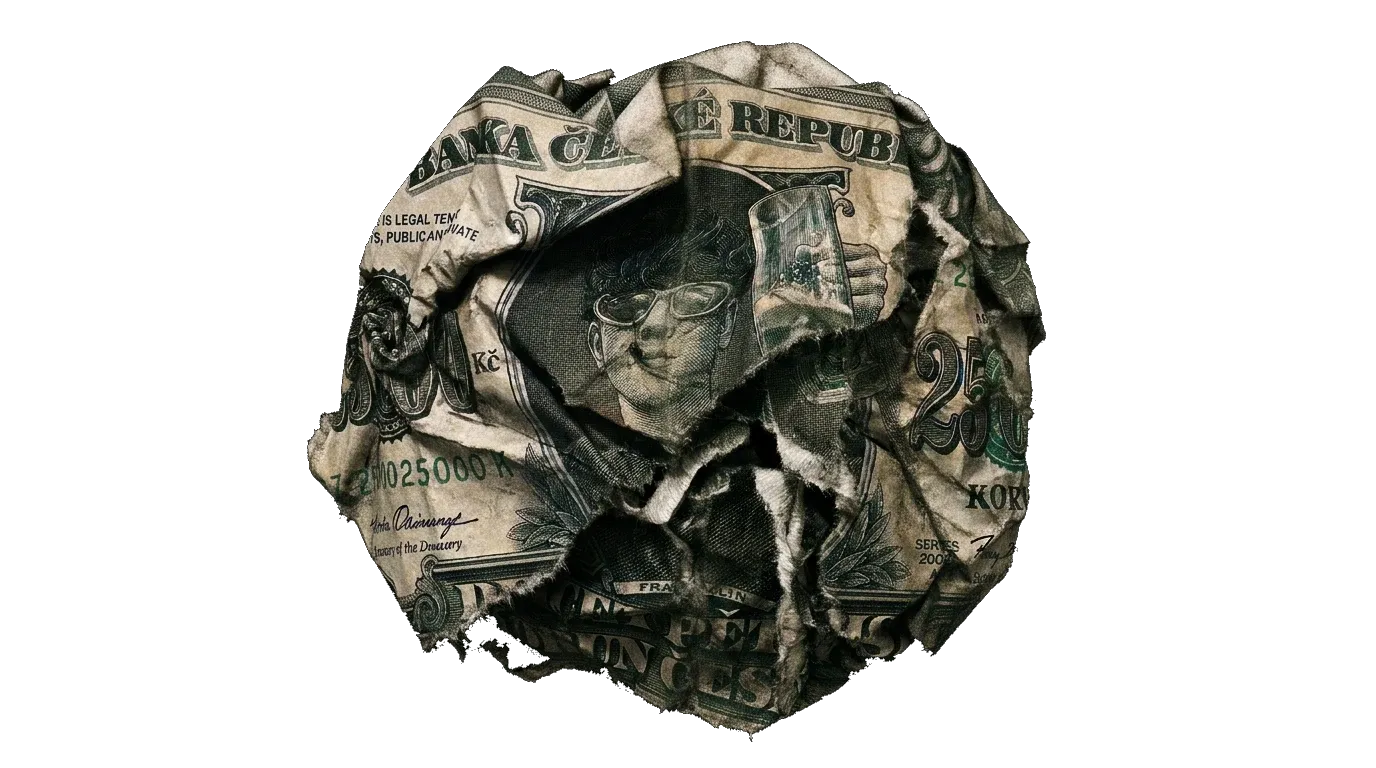
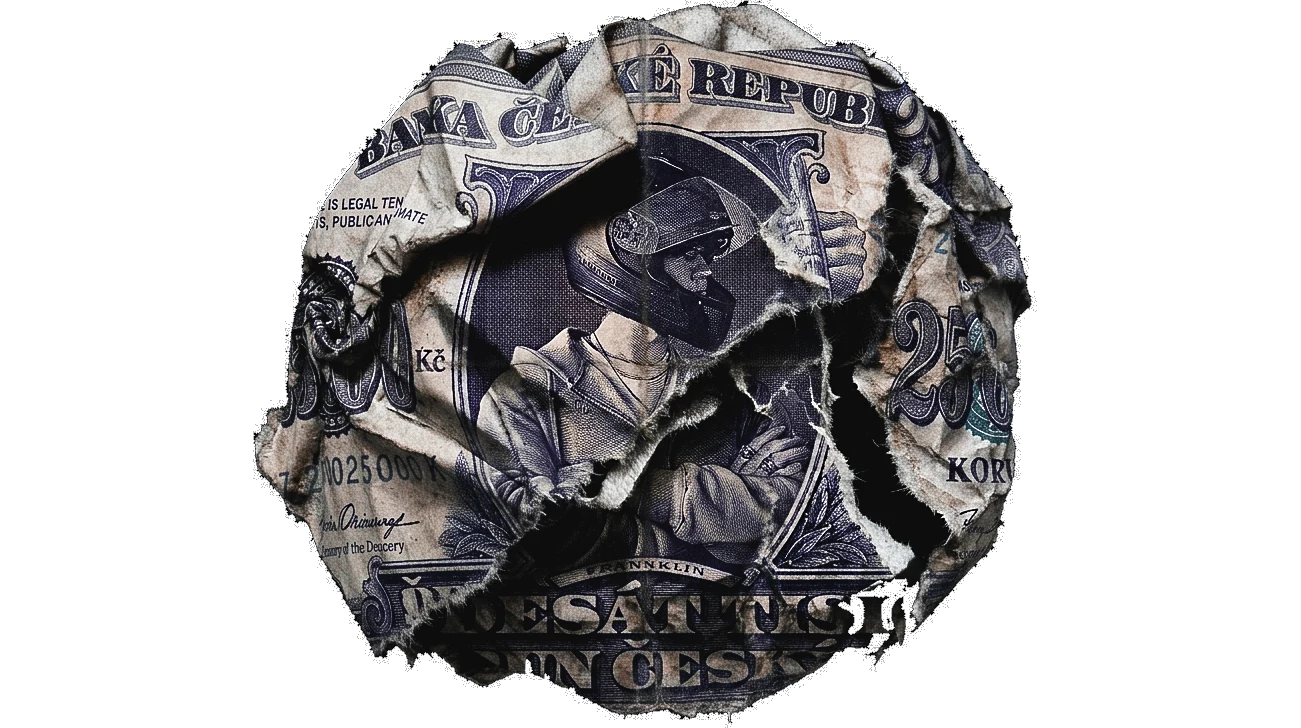
pridani 2. ESHOP BANKOVKY

diff --git a/src/features/home/About.tsx b/src/features/home/About.tsx
@@ -1,22 +1,57 @@
+import type { CSSProperties } from 'react'
 import { content } from '@/content/server'
+import { Words } from '@/components/fx/Words'
 import { typo } from '@/lib/typo/czech'
 import shared from './home.module.css'
 import styles from './About.module.css'
 
+/** Your own ID card render (a cut-out .webp in /public/photos, e.g. '/photos/id-card.webp'). Empty: the CSS card. */
+const CARD_ART = ''
+
+/** The typed note beside the ID card. OVĚŘIT: přepiš si to vlastními slovy. */
+const NOTE = {
+  head: 'Pár řádků o mně',
+  lines: [
+    'Ahoj, jsem FAJLAJP.',
+    'Weby dělám sám, od prvního nápadu až po poslední opravenou čárku. Žádná agentura, žádný přeposílání mailů.',
+    'Nejvíc mi to jde večer, když je ticho. Přes den ale odpovídám taky.',
+    'Baví mě, když web není jen hezkej, ale když je na něm poznat, čí je.',
+  ],
+  sign: '— F.',
+}
+
 /**
- * O mně — my photo on the left as a real print (taped, dated, turn it over); the copy on
- * the right: heading, two paragraphs, then the facts as a ruled two-column list.
+ * O mně — everything comes out of my wallet: the head (label, heading, two paragraphs), the open
+ * wallet with the @fajlajpos tag, then what else is in it: my "ID card" with the facts, and a few
+ * polaroids lying next to it.
  */
 export async function About() {
   const { home } = await content()
   const { about } = home
   return (
     <section id="o-mne" className={`${shared.section} ${styles.section}`} aria-labelledby="o-mne-title">
-      {/* for now the whole section is my wallet, open (public/photos/wallet-v3.webp); the texts come back with the redesign */}
-      <h2 id="o-mne-title" className="visually-hidden">
-        {about.heading}
-      </h2>
-      <div className={styles.walletWrap}>
+      <header className={styles.head}>
+        <p className={shared.label} data-reveal="">
+          <b>{about.index}</b> {about.label}
+        </p>
+        <h2
+          id="o-mne-title"
+          className={`${shared.h2} ${styles.title}`}
+          data-reveal=""
+          style={{ '--reveal-i': 1 } as CSSProperties}
+        >
+          <Words text={about.heading} />
+        </h2>
+        <div className={styles.body} data-reveal="" style={{ '--reveal-i': 2 } as CSSProperties}>
+          {about.body.map((p, i) => (
+            <p key={i} className={i === 0 ? styles.first : styles.text}>
+              {typo(p)}
+            </p>
+          ))}
+        </div>
+      </header>
+
+      <figure className={styles.walletWrap} data-reveal="">
         {/* eslint-disable-next-line @next/next/no-img-element -- a cut-out photo */}
         <img className={styles.wallet} src="/photos/wallet-v3.webp" alt={typo(about.caption)} width={1903} height={1158} loading="lazy" />
         {/* an Instagram-style tag over my head on the photo */}
@@ -24,6 +59,44 @@ export async function About() {
           @fajlajpos
           <span className="visually-hidden"> na Instagramu (otevře se v novém okně)</span>
         </a>
+      </figure>
+
+      <div className={styles.contents}>
+        {/* the ID card out of the wallet: your own render if there is one, else the CSS card */}
+        {CARD_ART ? (
+          <figure className={styles.cardArt} data-reveal="">
+            {/* eslint-disable-next-line @next/next/no-img-element -- my own ID card render */}
+            <img src={CARD_ART} alt="" width={1586} height={1000} loading="lazy" />
+            <figcaption className="visually-hidden">
+              {about.facts.map((f) => `${f.label}: ${f.value}`).join(', ')}
+            </figcaption>
+          </figure>
+        ) : (
+        <article className={styles.card} data-reveal="" aria-label="Moje karta">
+          <div className={styles.cardTop}>
+            <span className={styles.cardKind}>Průkaz · FAJLAJP</span>
+            <span className={styles.chip} aria-hidden="true" />
+          </div>
+          <dl className={styles.fields}>
+            {about.facts.map((f) => (
+              <div key={f.label} className={styles.field}>
+                <dt>{f.label}</dt>
+                <dd>{f.value}</dd>
+              </div>
+            ))}
+          </dl>
+          <p className={styles.cardFoot}>{typo(about.caption)}</p>
+        </article>
+        )}
+
+        {/* a sheet of paper typed on a typewriter */}
+        <div className={styles.paper} data-reveal="">
+          <p className={styles.paperHead}>{NOTE.head}</p>
+          {NOTE.lines.map((l, i) => (
+            <p key={i}>{typo(l)}</p>
+          ))}
+          <p className={styles.paperSign}>{NOTE.sign}</p>
+        </div>
       </div>
     </section>
   )

diff --git a/src/features/home/About.module.css b/src/features/home/About.module.css
@@ -188,3 +188,169 @@
   outline-offset: 3px;
 }
 
+/* ── the new layout: head, wallet, facts, photo strip ── */
+.head {
+  display: grid;
+  gap: var(--space-5);
+  max-width: 70rem;
+  margin-inline: auto;
+}
+
+.walletWrap {
+  margin-top: var(--space-8);
+  margin-bottom: 0;
+}
+
+/* ── what else is in the wallet: the ID card + polaroids ── */
+.contents {
+  display: grid;
+  gap: var(--space-8);
+  max-width: 70rem;
+  margin: var(--space-8) auto 0;
+  align-items: center;
+}
+
+/* the card: credit-card proportions, brushed dark metal, a chrome chip — no glow */
+.card {
+  position: relative;
+  display: grid;
+  gap: var(--space-5);
+  width: min(100%, 30rem);
+  aspect-ratio: 1.586;
+  margin-inline: auto;
+  padding: clamp(1rem, 3vw, 1.6rem);
+  border-radius: 16px;
+  background:
+    repeating-linear-gradient(90deg, rgb(255 255 255 / 0.02) 0 1px, transparent 1px 3px),
+    linear-gradient(135deg, #2a2a30 0%, #16161a 55%, #222228 100%);
+  box-shadow:
+    inset 0 1px 0 rgb(255 255 255 / 0.14),
+    inset 0 0 0 1px rgb(255 255 255 / 0.06),
+    0 24px 40px -12px rgb(0 0 0 / 0.8);
+  rotate: -2deg;
+  align-content: space-between;
+}
+
+.cardArt {
+  width: min(100%, 32rem);
+  margin: 0 auto;
+  rotate: -2deg;
+}
+
+.cardArt img {
+  display: block;
+  width: 100%;
+  height: auto;
+  filter: drop-shadow(0 24px 30px rgb(0 0 0 / 0.75));
+}
+
+.cardTop {
+  display: flex;
+  align-items: center;
+  justify-content: space-between;
+}
+
+.cardKind {
+  font-size: var(--fs-small);
+  font-weight: 600;
+  letter-spacing: 0.12em;
+  text-transform: uppercase;
+  color: var(--fg-muted);
+}
+
+.chip {
+  width: 2.6rem;
+  aspect-ratio: 1.3;
+  border-radius: 6px;
+  background: var(--chrome);
+  box-shadow: inset 0 0 0 1px rgb(0 0 0 / 0.35);
+}
+
+.fields {
+  display: grid;
+  grid-template-columns: repeat(2, minmax(0, 1fr));
+  gap: var(--space-4) var(--space-5);
+  margin: 0;
+}
+
+.field dt {
+  font-size: 0.75rem;
+  letter-spacing: 0.08em;
+  text-transform: uppercase;
+  color: var(--fg-subtle);
+}
+
+.field dd {
+  margin: 0.15rem 0 0;
+  font-weight: 600;
+  color: var(--fg);
+}
+
+.cardFoot {
+  font-size: var(--fs-small);
+  color: var(--fg-subtle);
+}
+
+/* the typed sheet: off-white paper, slightly askew, faint fold and uneven ink */
+.paper {
+  position: relative;
+  display: grid;
+  gap: 0.9rem;
+  width: min(100%, 30rem);
+  margin-inline: auto;
+  padding: clamp(1.4rem, 4vw, 2.2rem) clamp(1.2rem, 4vw, 2.2rem) clamp(1.6rem, 4vw, 2.4rem);
+  background:
+    linear-gradient(180deg, transparent 49.6%, rgb(0 0 0 / 0.05) 50%, rgb(255 255 255 / 0.35) 50.4%, transparent 51%),
+    radial-gradient(120% 90% at 30% 20%, #f4f0e6 0%, #ebe5d6 70%, #ddd5c2 100%);
+  color: #26241f;
+  font-family: var(--font-typewriter), 'Courier New', monospace;
+  font-size: 0.98rem;
+  line-height: 1.6;
+  box-shadow: 0 24px 40px -14px rgb(0 0 0 / 0.8);
+  rotate: 1.5deg;
+}
+
+.paper p {
+  margin: 0;
+  /* a typewriter never inks evenly */
+  text-shadow: 0 0 0.6px rgb(38 36 31 / 0.55);
+}
+
+.paperHead {
+  font-weight: 700;
+  text-transform: uppercase;
+  letter-spacing: 0.08em;
+  text-decoration: underline;
+  text-underline-offset: 4px;
+}
+
+.paperSign {
+  justify-self: end;
+}
+
+@media (min-width: 1024px) {
+  .contents {
+    grid-template-columns: 1fr 1fr;
+  }
+}
+
+@media (min-width: 1024px) {
+  .head {
+    grid-template-columns: repeat(12, minmax(0, 1fr));
+    column-gap: var(--gutter);
+    align-items: end;
+  }
+
+  .head > :first-child {
+    grid-column: 1 / -1;
+  }
+
+  .head .title {
+    grid-column: 1 / 6;
+  }
+
+  .head .body {
+    grid-column: 7 / 13;
+  }
+}
+

diff --git a/src/app/fonts.ts b/src/app/fonts.ts
@@ -1,4 +1,4 @@
-import { Instrument_Sans } from 'next/font/google'
+import { Courier_Prime, Instrument_Sans } from 'next/font/google'
 
 // One family for everything: Instrument Sans. Quiet, precise, a little narrow when it is set
 // large (the wdth axis), so the chrome and the work carry the page, not the type.
@@ -9,5 +9,13 @@ export const instrument = Instrument_Sans({
   variable: '--font-instrument',
 })
 
+/** Typewriter, only for the typed note in O mně. */
+export const typewriter = Courier_Prime({
+  subsets: ['latin', 'latin-ext'],
+  weight: ['400', '700'],
+  display: 'swap',
+  variable: '--font-typewriter',
+})
+
 /** All font variables, for the className on <html>. */
-export const fontVariables = instrument.variable
+export const fontVariables = `${instrument.variable} ${typewriter.variable}`

diff --git a/src/features/home/Pricing.tsx b/src/features/home/Pricing.tsx
@@ -56,7 +56,7 @@ export async function Pricing() {
               <Price value={item.from} />
             </p>
             {/* the price as a banknote with my face (only the ones made so far: E-shop) */}
-            {i === 0 && <PriceNote id="eshop" label={`${typo(item.title)} ${item.from}: zmačkat bankovku`} />}
+            {i < 2 && <PriceNote id={i === 0 ? 'web' : 'eshop'} label={`${typo(item.title)} ${item.from}: zmačkat bankovku`} />}
           </li>
         ))}
       </ul>

diff --git a/src/features/home/PriceNote.tsx b/src/features/home/PriceNote.tsx
@@ -62,8 +62,8 @@ export function PriceNote({ id, frames = 5, label }: { id: string; frames?: numb
           key={i}
           src={`/prices/${id}-${i + 1}.webp`}
           alt=""
-          width={1376}
-          height={768}
+          width={1300}
+          height={724}
           className={styles.noteFrame}
           data-on={i + 1 === frame || undefined}
           loading="lazy"

diff --git a/src/features/home/Pricing.module.css b/src/features/home/Pricing.module.css
@@ -169,7 +169,7 @@
   position: relative;
   display: block;
   width: 100%;
-  aspect-ratio: 1376 / 768;
+  aspect-ratio: 1300 / 724;
   margin-top: var(--space-4);
   padding: 0;
   border: 0;
